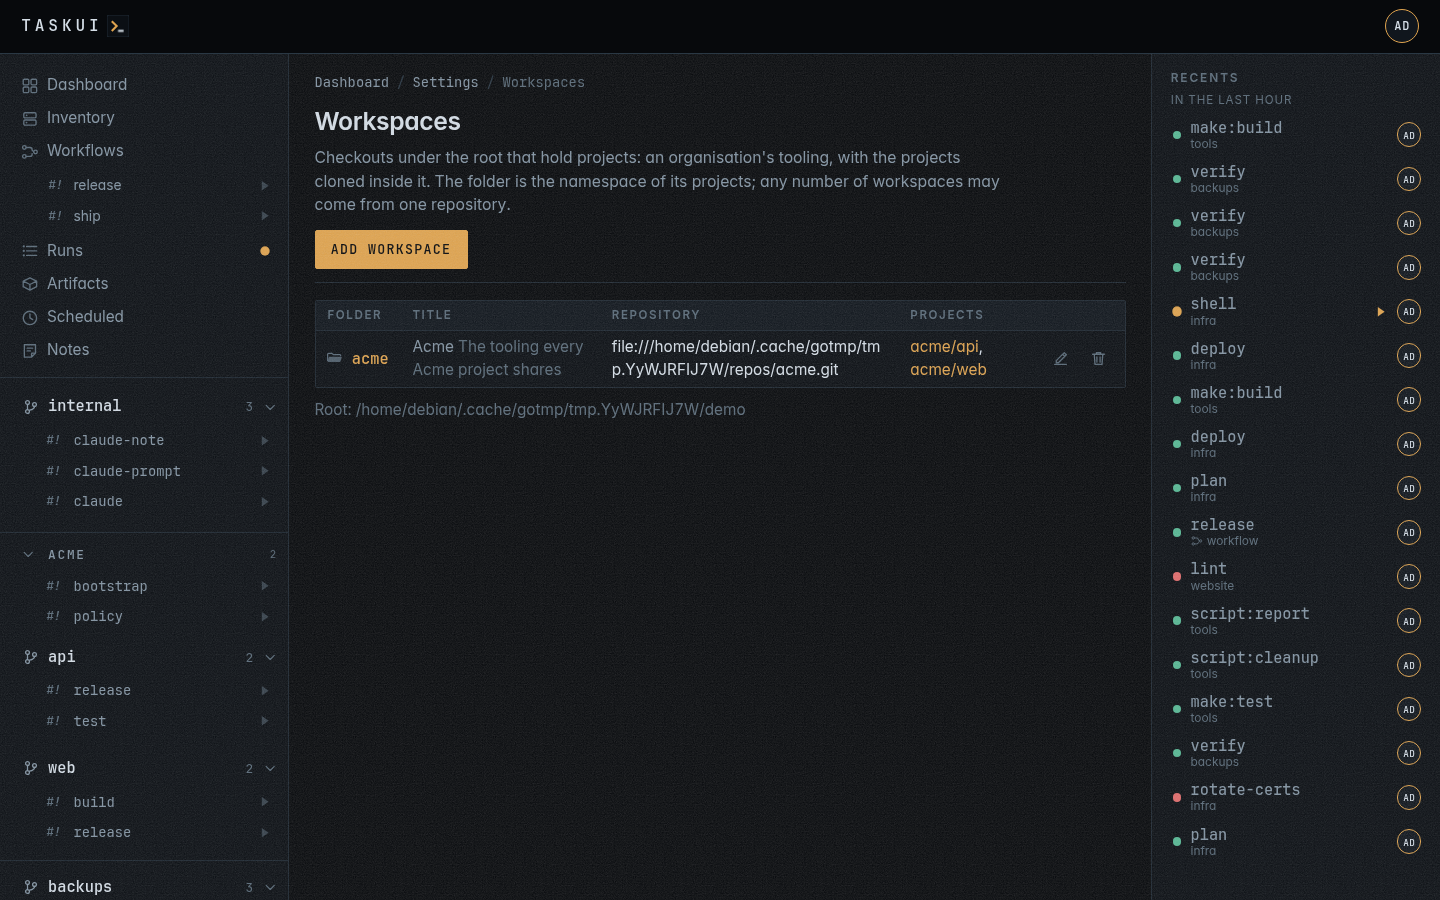
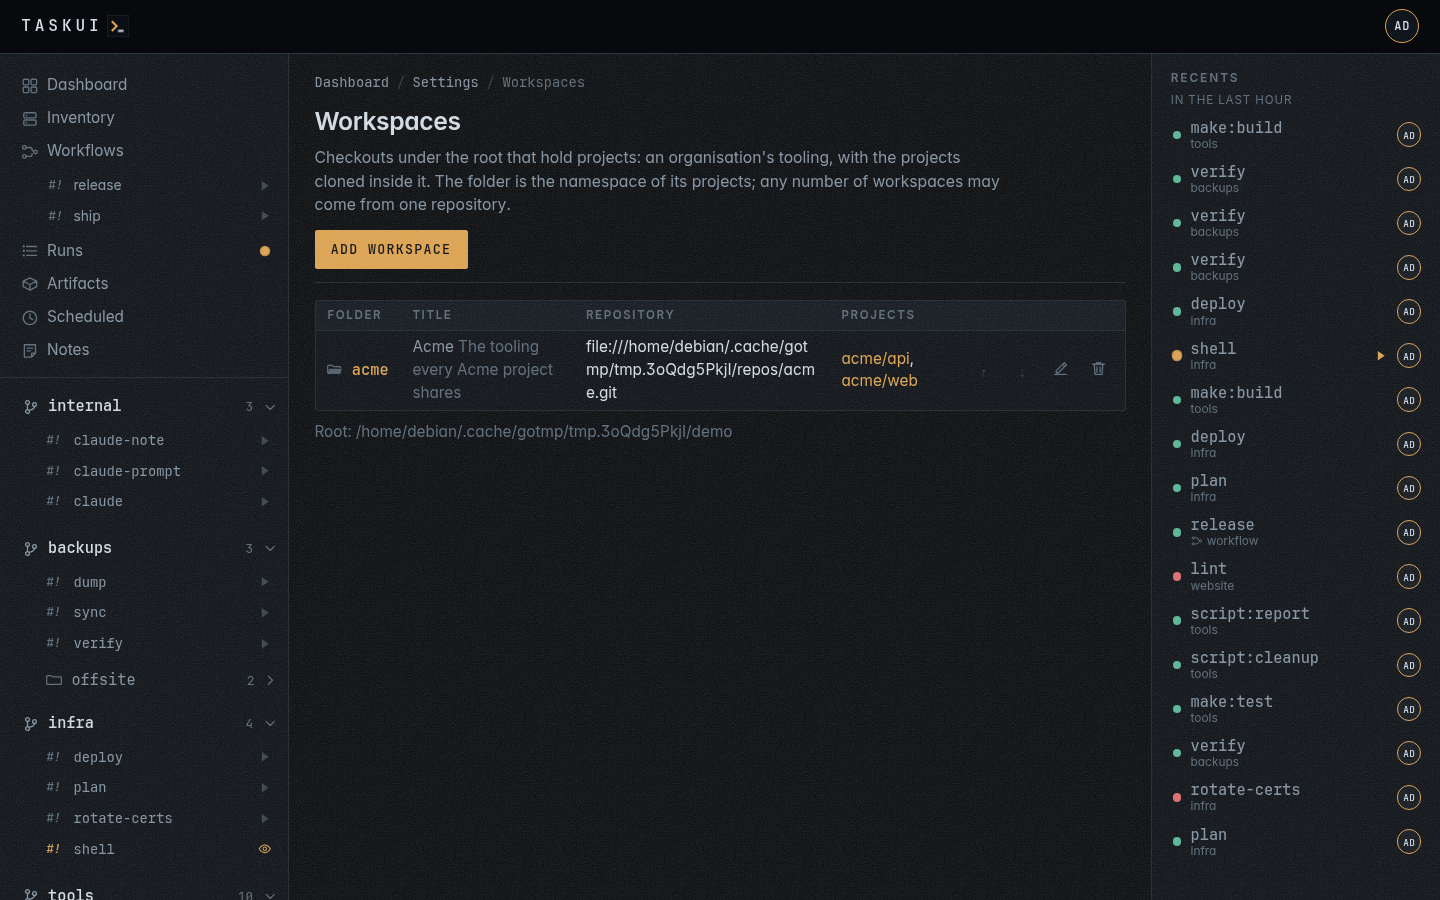
Sidebar: projects at the root first, then the workspaces in their order
The sidebar kept discovery's order by name, so workspaces and projects
interleaved: a project cloned at the root whose name sorts after a
workspace listed below it, where it reads as part of the workspace.
The projects at the root now come first, in their order, and the
workspaces follow by a sort, then by folder. A group whose top folder
is not listed stands where its first folder does instead of at the end.

workspace.sort holds the order; an added workspace goes last.
PUT /api/workspaces/{folder} takes a sort, left out it stays, and the
Workspaces page lists them in order with Move up and Move down. Without
workspaces the sidebar renders as before.

diff --git a/frontend/view/assets/task-ui.js b/frontend/view/assets/task-ui.js
@@ -925,6 +925,38 @@
     });
   });
 
+  // Move up and Move down on the Workspaces page: the workspace trades
+  // places with its neighbour, and every workspace whose sort is not its
+  // place in the new order gets it, which is the two of them once the
+  // sorts are 0, 1, 2 and on.
+  document.addEventListener("click", function (event) {
+    var btn = event.target.closest("[data-workspace-move]");
+    if (!btn) return;
+    event.preventDefault();
+    btn.disabled = true;
+    api("GET", "/api/workspaces").then(function (res) {
+      if (res.status >= 300) throw new Error(res.data.error || ("HTTP " + res.status));
+      var list = res.data.workspaces;
+      var i = list.findIndex(function (ws) { return ws.folder === btn.dataset.folder; });
+      var j = btn.dataset.workspaceMove === "up" ? i - 1 : i + 1;
+      if (i < 0 || j < 0 || j >= list.length) return null;
+      var moved = list[i];
+      list[i] = list[j];
+      list[j] = moved;
+      return Promise.all(list.map(function (ws, sort) {
+        if (ws.sort === sort) return null;
+        return api("PUT", "/api/workspaces/" + encodeURIComponent(ws.folder), { title: ws.title, description: ws.description, sort: sort });
+      }));
+    }).then(function (results) {
+      var failed = (results || []).find(function (res) { return res && res.status >= 300; });
+      if (failed) throw new Error(failed.data.error || ("HTTP " + failed.status));
+      next("reload");
+    }).catch(function (err) {
+      btn.disabled = false;
+      window.alert(err.message);
+    });
+  });
+
   // The workflow page follows its topic; live says so, below. Any page
   // that follows a topic draws its changes and is never reloaded.
   var live = document.querySelector('[data-sse^="workflow:"]');

diff --git a/frontend/view/assets/css/icons.css b/frontend/view/assets/css/icons.css
@@ -33,6 +33,18 @@
     text-decoration: none;
   }
 
+  /* As .btn: a move with nowhere to go, the first row's Move up. */
+  &:disabled {
+    opacity: 0.35;
+    cursor: not-allowed;
+
+    &:hover {
+      color: var(--text-dim);
+      border-color: transparent;
+      background: transparent;
+    }
+  }
+
   /* Destructive actions wear the one red on the page. */
   &.danger {
     color: var(--bad);

diff --git a/frontend/view/groups_test.go b/frontend/view/groups_test.go
@@ -38,7 +38,8 @@ func TestGroups(t *testing.T) {
 
 // A workspace holds its projects, ws/project, each a group with the
 // folders inside it; a folder whose project is not listed stands in a
-// project of its own, without a top. The other groups stay as they are.
+// project of its own, without a top. The projects at the root come
+// first, the workspaces after them by rank.
 func TestGroups_workspace(t *testing.T) {
 	t.Parallel()
 	ids := []string{"apps", "apps/blog", "malta", "malta/deploy", "malta/deploy/web", "malta/deploy/web/edge", "malta/pkg", "malta/vhosts/site", "lab/deep"}
@@ -47,7 +48,7 @@ func TestGroups_workspace(t *testing.T) {
 		folders = append(folders, &folder.Folder{ID: id})
 	}
 
-	groups := view.Groups(folders, map[string]bool{"malta": true, "lab": true})
+	groups := view.Groups(folders, map[string]int{"malta": 0, "lab": 1})
 	assert.Len(t, groups, 3)
 	assert.Equal(t, "apps", groups[0].Top.ID)
 	assert.False(t, groups[0].Workspace)
@@ -92,4 +93,50 @@ func TestGroup(t *testing.T) {
 	assert.Equal(t, "deploy", g.ID)
 	assert.Equal(t, "deploy", g.Top.ID)
 	assert.Equal(t, []string{"deploy/terraform"}, idsOf(g.Nested))
+}
+
+// The top-level projects come first, in their order, and the workspaces
+// after them: a project cloned at the root lists above every workspace,
+// whatever its name, and none of it falls under a workspace's fold.
+func TestGroups_newProject(t *testing.T) {
+	t.Parallel()
+	ids := []string{"acme", "acme/api", "alpha", "beta", "beta/app", "infra", "zeta"}
+	folders := make([]*folder.Folder, 0, len(ids))
+	for _, id := range ids {
+		folders = append(folders, &folder.Folder{ID: id})
+	}
+
+	groups := view.Groups(folders, map[string]int{"acme": 0, "beta": 1})
+	order := []string{}
+	for _, g := range groups {
+		order = append(order, g.ID)
+	}
+	assert.Equal(t, []string{"alpha", "infra", "zeta", "acme", "beta"}, order)
+}
+
+// The workspaces go by rank, then by folder; a project at the root
+// whose top is not listed keeps its place among the others, and a user
+// who sees a workspace's project but not the workspace finds it under
+// the workspace, in the workspace's place.
+func TestGroups_order(t *testing.T) {
+	t.Parallel()
+	ids := []string{"acme/api", "apps/blog", "beta", "beta/app", "cobalt", "infra", "zeta"}
+	folders := make([]*folder.Folder, 0, len(ids))
+	for _, id := range ids {
+		folders = append(folders, &folder.Folder{ID: id})
+	}
+
+	groups := view.Groups(folders, map[string]int{"acme": 1, "beta": 1, "zeta": 0})
+	order := []string{}
+	for _, g := range groups {
+		order = append(order, g.ID)
+	}
+	assert.Equal(t, []string{"apps", "cobalt", "infra", "zeta", "acme", "beta"}, order)
+	assert.True(t, groups[0].Top == nil, "apps is not listed")
+	assert.Equal(t, []string{"apps/blog"}, idsOf(groups[0].Nested))
+	acme := groups[4]
+	assert.True(t, acme.Workspace)
+	assert.True(t, acme.Top == nil, "acme is not listed")
+	assert.Len(t, acme.Projects, 1)
+	assert.Equal(t, "acme/api", acme.Projects[0].Top.ID)
 }

diff --git a/frontend/view/groups.go b/frontend/view/groups.go
@@ -1,6 +1,7 @@
 package view
 
 import (
+	"sort"
 	"strings"
 
 	"github.com/titpetric/task-ui/folder"
@@ -21,31 +22,48 @@ type Group struct {
 
 // Groups puts the folders, in their order, under their projects, and
 // the projects of each workspace, by its folder, under the workspace.
-func Groups(folders []*folder.Folder, workspaces map[string]bool) []Group {
-	return group(folders, 0, workspaces)
+// The projects at the root come first, in the folders' order; the
+// workspaces follow, by their rank in workspaces and then by folder.
+func Groups(folders []*folder.Folder, workspaces map[string]int) []Group {
+	groups := group(folders, 0, workspaces)
+	sort.SliceStable(groups, func(i, j int) bool {
+		a, b := groups[i], groups[j]
+		if a.Workspace != b.Workspace {
+			return b.Workspace
+		}
+		if !a.Workspace {
+			return false
+		}
+		if ra, rb := workspaces[a.ID], workspaces[b.ID]; ra != rb {
+			return ra < rb
+		}
+		return a.ID < b.ID
+	})
+	return groups
 }
 
 // group groups the folders by their first depth+1 segments: a folder
-// that deep is a group's top, a deeper one sits in its group.
-func group(folders []*folder.Folder, depth int, workspaces map[string]bool) []Group {
+// that deep is a group's top, a deeper one sits in its group. A group
+// stands where its first folder does, its top or, with the top not
+// listed, the first folder inside it.
+func group(folders []*folder.Folder, depth int, workspaces map[string]int) []Group {
 	var groups []Group
 	byTop := map[string]int{}
 	for _, f := range folders {
-		if f.Depth() == depth {
-			byTop[f.ID] = len(groups)
-			groups = append(groups, Group{ID: f.ID, Top: f, Workspace: workspaces[f.ID]})
+		top := f.ID
+		if f.Depth() != depth {
+			top = strings.Join(strings.SplitN(f.ID, "/", depth+2)[:depth+1], "/")
 		}
-	}
-	for _, f := range folders {
-		if f.Depth() == depth {
-			continue
-		}
-		top := strings.Join(strings.SplitN(f.ID, "/", depth+2)[:depth+1], "/")
 		i, ok := byTop[top]
 		if !ok {
 			i = len(groups)
 			byTop[top] = i
-			groups = append(groups, Group{ID: top, Workspace: workspaces[top]})
+			_, workspace := workspaces[top]
+			groups = append(groups, Group{ID: top, Workspace: workspace})
+		}
+		if f.Depth() == depth {
+			groups[i].Top = f
+			continue
 		}
 		groups[i].Nested = append(groups[i].Nested, f)
 	}

diff --git a/frontend/workspace_test.go b/frontend/workspace_test.go
@@ -3,6 +3,7 @@ package frontend_test
 import (
 	"context"
 	"net/http"
+	"strings"
 	"testing"
 
 	"github.com/titpetric/task-ui/internal/assert"
@@ -26,10 +27,22 @@ func TestWorkspaces(t *testing.T) {
 	assert.Contains(t, body, "git@example.com:org/workspace.git")
 	assert.Contains(t, body, `href="/settings/workspaces/malta"`)
 	assert.Contains(t, body, `data-delete="/api/workspaces/malta"`)
+	// One workspace has nowhere to move.
+	assert.Contains(t, body, `data-workspace-move="up" data-folder="malta" title="Move up" aria-label="Move malta up" disabled>`)
+	assert.Contains(t, body, `data-workspace-move="down" data-folder="malta" title="Move down" aria-label="Move malta down" disabled>`)
 
 	settings := f.page(t, asAdmin, "/settings")
 	assert.Contains(t, settings, `href="/settings/workspaces"`)
 	assert.Contains(t, settings, "1 workspace<")
+
+	// The workspaces list in their order, each movable toward the other.
+	assert.NoError(t, f.opts.Workspaces.Create(ctx, &model.Workspace{Folder: "gozo", Title: "Gozo"}))
+	body = f.page(t, asAdmin, "/settings/workspaces")
+	assert.True(t, strings.Index(body, `href="/f/malta"`) < strings.Index(body, `href="/f/gozo"`), "malta, added first, lists first")
+	assert.Contains(t, body, `data-workspace-move="up" data-folder="malta" title="Move up" aria-label="Move malta up" disabled>`)
+	assert.Contains(t, body, `data-workspace-move="down" data-folder="malta" title="Move down" aria-label="Move malta down">`)
+	assert.Contains(t, body, `data-workspace-move="up" data-folder="gozo" title="Move up" aria-label="Move gozo up">`)
+	assert.Contains(t, body, `data-workspace-move="down" data-folder="gozo" title="Move down" aria-label="Move gozo down" disabled>`)
 
 	form := f.page(t, asAdmin, "/settings/workspaces/new")
 	assert.Contains(t, form, `data-api="/api/workspaces"`)

diff --git a/storage/workspace_storage.go b/storage/workspace_storage.go
@@ -19,13 +19,21 @@ func NewWorkspaceStorage(db DB) *WorkspaceStorage {
 }
 
 // Create inserts a workspace. The folder is its identity; any number
-// of workspaces may share a repository.
+// of workspaces may share a repository. One without a sort goes after
+// the others.
 func (s *WorkspaceStorage) Create(ctx context.Context, workspace *model.Workspace) error {
 	if workspace.Folder == "" {
 		return errors.New("a workspace needs a folder")
 	}
 	if workspace.ID == "" {
 		workspace.ID = model.NewID()
+	}
+	if workspace.Sort == 0 {
+		next, err := client(s.db).Get[int64](ctx, "SELECT COALESCE(MAX(sort) + 1, 0) FROM workspace")
+		if err != nil {
+			return err
+		}
+		workspace.Sort = *next
 	}
 	workspace.CreatedAt = stamp()
 	workspace.UpdatedAt = workspace.CreatedAt
@@ -44,12 +52,12 @@ func (s *WorkspaceStorage) GetByFolder(ctx context.Context, folder string) (*mod
 	return workspace, notFound(err)
 }
 
-// List returns every workspace, by folder.
+// List returns every workspace, by sort, then by folder.
 func (s *WorkspaceStorage) List(ctx context.Context) ([]model.Workspace, error) {
-	return client(s.db).Select[model.Workspace](ctx, "SELECT * FROM workspace ORDER BY folder")
+	return client(s.db).Select[model.Workspace](ctx, "SELECT * FROM workspace ORDER BY sort, folder")
 }
 
-// Folders returns the folder of every workspace, sorted.
+// Folders returns the folder of every workspace, in List's order.
 func (s *WorkspaceStorage) Folders(ctx context.Context) ([]string, error) {
 	workspaces, err := s.List(ctx)
 	if err != nil {

diff --git a/api/workspace_test.go b/api/workspace_test.go
@@ -52,7 +52,7 @@ func TestWorkspace_CRUD(t *testing.T) {
 
 	list := f.call(t, asAdmin, http.MethodGet, "/workspaces", nil)
 	assert.Len(t, list.list("workspaces"), 2)
-	assert.Equal(t, "gozo", list.list("workspaces")[0].(map[string]any)["folder"])
+	assert.Equal(t, "malta", list.list("workspaces")[0].(map[string]any)["folder"], "an added workspace goes last")
 
 	got := f.call(t, asAdmin, http.MethodGet, "/workspaces/malta", nil)
 	assert.Equal(t, http.StatusOK, got.Status)
@@ -64,6 +64,17 @@ func TestWorkspace_CRUD(t *testing.T) {
 	assert.Equal(t, "org tooling", updated.str("description"))
 	assert.Equal(t, repo, updated.str("source_url"), "an update keeps the repository")
 	assert.Equal(t, got.str("id"), updated.str("id"))
+	assert.Equal(t, float64(0), updated.get("sort"))
+
+	// A sort places the workspace; left out, it stays.
+	sort := int64(5)
+	sorted := f.call(t, asAdmin, http.MethodPut, "/workspaces/malta", api.WorkspaceRequest{Title: "The island", Sort: &sort})
+	assert.Equal(t, http.StatusOK, sorted.Status, string(sorted.Raw))
+	assert.Equal(t, float64(5), sorted.get("sort"))
+	list = f.call(t, asAdmin, http.MethodGet, "/workspaces", nil)
+	assert.Equal(t, "gozo", list.list("workspaces")[0].(map[string]any)["folder"])
+	kept := f.call(t, asAdmin, http.MethodPut, "/workspaces/malta", api.WorkspaceRequest{Title: "The island"})
+	assert.Equal(t, float64(5), kept.get("sort"))
 
 	deleted := f.call(t, asAdmin, http.MethodDelete, "/workspaces/malta", nil)
 	assert.Equal(t, http.StatusNoContent, deleted.Status)

diff --git a/model/types.mig.go b/model/types.mig.go
@@ -1851,6 +1851,9 @@ type Workspace struct {
 
 	// Updated At
 	UpdatedAt *time.Time `db:"updated_at" json:"updated_at"`
+
+	// Sort
+	Sort int64 `db:"sort" json:"sort"`
 }
 
 // GetID will return the value of ID.
@@ -1901,11 +1904,17 @@ func (w *Workspace) GetUpdatedAt() *time.Time { return w.UpdatedAt }
 // SetUpdatedAt sets UpdatedAt to the provided value.
 func (w *Workspace) SetUpdatedAt(stamp time.Time) { w.UpdatedAt = &stamp }
 
+// GetSort will return the value of Sort.
+func (w *Workspace) GetSort() int64 { return w.Sort }
+
+// SetSort sets Sort to the provided value.
+func (w *Workspace) SetSort(val int64) { w.Sort = val }
+
 // WorkspaceTable is the name of the table in the DB.
 const WorkspaceTable = "`workspace`"
 
 // WorkspaceFields is a list of all columns in the DB table.
-var WorkspaceFields = []string{"id", "folder", "title", "description", "source_url", "branch", "created_at", "updated_at"}
+var WorkspaceFields = []string{"id", "folder", "title", "description", "source_url", "branch", "created_at", "updated_at", "sort"}
 
 // WorkspacePrimaryFields are the primary key fields in the DB table.
 var WorkspacePrimaryFields = []string{"id"}

diff --git a/storage/workspace_storage_test.go b/storage/workspace_storage_test.go
@@ -54,14 +54,29 @@ func TestWorkspaceStorage_List(t *testing.T) {
 	for _, folder := range []string{"malta", "gozo"} {
 		assert.NoError(t, workspaces.Create(ctx, &model.Workspace{Folder: folder}))
 	}
+	// An added workspace goes last.
 	list, err := workspaces.List(ctx)
 	assert.NoError(t, err)
 	assert.Len(t, list, 2)
-	assert.Equal(t, "gozo", list[0].Folder)
+	assert.Equal(t, "malta", list[0].Folder)
+	assert.Equal(t, int64(0), list[0].Sort)
+	assert.Equal(t, int64(1), list[1].Sort)
 
 	folders, err := workspaces.Folders(ctx)
 	assert.NoError(t, err)
+	assert.Equal(t, []string{"malta", "gozo"}, folders)
+
+	// The sort orders them, the folder breaks a tie.
+	list[1].Sort = 0
+	assert.NoError(t, workspaces.Update(ctx, &list[1]))
+	folders, err = workspaces.Folders(ctx)
+	assert.NoError(t, err)
 	assert.Equal(t, []string{"gozo", "malta"}, folders)
+	list[0].Sort = -1
+	assert.NoError(t, workspaces.Update(ctx, &list[0]))
+	folders, err = workspaces.Folders(ctx)
+	assert.NoError(t, err)
+	assert.Equal(t, []string{"malta", "gozo"}, folders)
 }
 
 func TestWorkspaceStorage_Update(t *testing.T) {

diff --git a/frontend/page_test.go b/frontend/page_test.go
@@ -170,6 +170,13 @@ func TestPage_Workspaces(t *testing.T) {
 	}
 	assert.True(t, closes > web, "the workspace closes after malta/deploy/web")
 
+	// A project at the root lists above the workspaces, whatever its name.
+	cat["zeta"] = shellFolder(t, f.root, "zeta", map[string]string{"build": "echo zeta"})
+	body = f.page(t, asAdmin, "/")
+	zeta := strings.Index(body, `<details class="project" data-project="zeta" open>`)
+	ws = strings.Index(body, `<details class="workspace" data-project="malta" open>`)
+	assert.True(t, zeta >= 0 && zeta < ws, "zeta lists above malta")
+
 	// The sidebar marks the open page's workspace and project, and lights the folder's row.
 	page := f.page(t, asAdmin, "/f/malta/deploy/web")
 	assert.Contains(t, page, `<details class="workspace active" data-project="malta" open>`)

diff --git a/api/workspace_request.go b/api/workspace_request.go
@@ -3,11 +3,14 @@ package api
 // WorkspaceRequest adds a workspace from a git repository, or changes
 // one. A workspace's folder is the name its projects clone under; the
 // URL, the folder and the branch hold on create only, an update writes
-// the title and the description.
+// the title and the description, and the sort when the request has one.
 type WorkspaceRequest struct {
 	URL         string `json:"url"`
 	Folder      string `json:"folder"`
 	Title       string `json:"title"`
 	Description string `json:"description"`
 	Branch      string `json:"branch"`
+	// Sort orders the workspaces, lowest first; on an update, left out
+	// keeps it.
+	Sort *int64 `json:"sort,omitempty"`
 }

diff --git a/frontend/view/page.go b/frontend/view/page.go
@@ -34,9 +34,10 @@ type Page struct {
 	// SideFolders are the folders the sidebar lists: Folders less the
 	// projects set not to show there.
 	SideFolders []*folder.Folder
-	// Workspaces are the folders of the workspaces, which the sidebar
-	// lists with their projects under them.
-	Workspaces map[string]bool
+	// Workspaces are the folders of the workspaces, each with its rank,
+	// which the sidebar lists in that order, after the projects at the
+	// root, with their projects under them.
+	Workspaces map[string]int
 	// Recents are the latest runs of jobs and of workflows the user may
 	// see, newest first, for the sidebar.
 	Recents []RecentGroup
